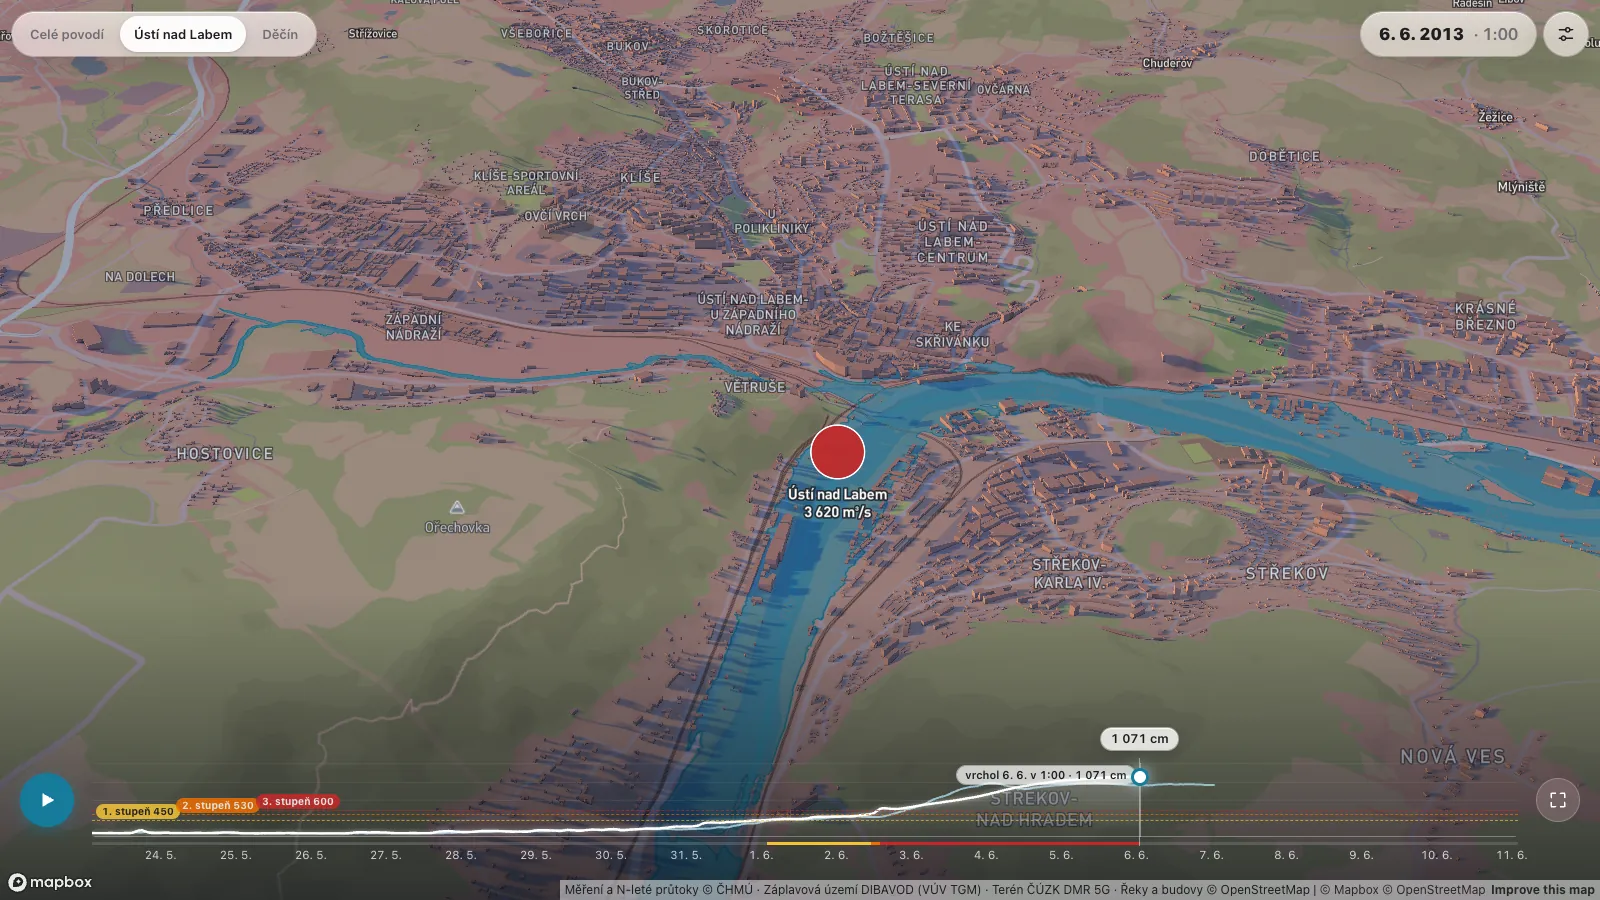
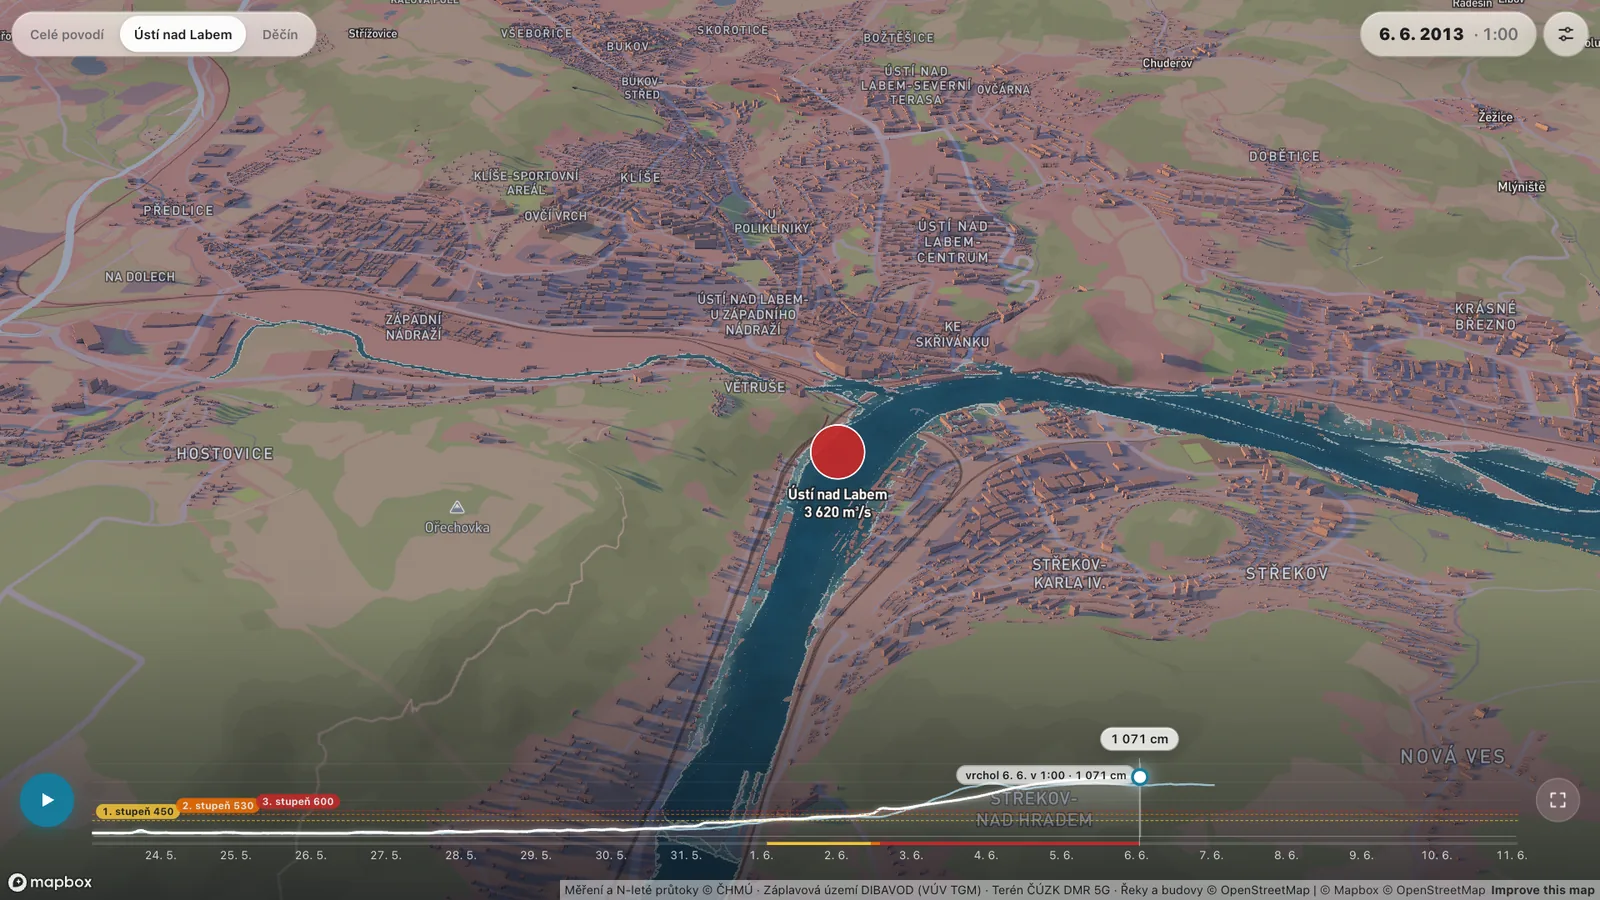
Ondra: odlesk slunce na vodě jako třpyt místo přepálené plochy, náhledy map s 3D vodou, video s plynule stoupající vodou

diff --git a/app/mapbox_mapa.py b/app/mapbox_mapa.py
@@ -898,7 +898,12 @@ void main() {
   vec3 R = reflect(-V, n);
   R.z = abs(R.z);
   float kSlunci = max(dot(R, u_slunce), 0.0);
-  vec3 nebe = mix(u_obzor, u_zenit, smoothstep(0.0, 0.55, R.z)) + u_barva_slunce * (0.4 * pow(kSlunci, 6.0) + 1.4 * pow(kSlunci, 120.0));
+  // z dálky a proti světlu, kde hladina zrcadlí oblohu, se odlesk slunce rozpadne na třpyt místo hladkého zrcadla
+  float daleko = max(smoothstep(1.5, 6.0, stopa), smoothstep(0.55, 0.9, F));
+  float jiskry = smoothstep(0.5, 0.85, sum(v_svet.xy / max(stopa * 1.2, 0.5) + u_cas * vec2(1.3, 0.4)).x);
+  float odlesk = (0.4 * pow(kSlunci, 6.0) + 0.8 * pow(kSlunci, 120.0)) * mix(1.0, 0.25 + 1.8 * jiskry, daleko);
+  vec3 nebe = mix(u_obzor, u_zenit, smoothstep(0.0, 0.55, R.z)) * mix(1.0, 0.72 + 0.5 * jiskry, daleko * pow(kSlunci, 3.0))
+            + u_barva_slunce * odlesk;
   vec3 telo = mix(u_melka, u_hluboka, 1.0 - exp(-hloubka / 1.4));
   // pomalé šmouhy kalné vody unášené proudem, ať je voda živá i z dálky, kde drobné vlnky nejsou vidět
   vec2 q = v_svet.xy - smer * rychlost * u_cas * 0.5;
@@ -908,6 +913,9 @@ void main() {
   vec3 Hv = normalize(V + u_slunce);
   float nh = max(dot(n, Hv), 0.0);
   c += u_barva_slunce * (pow(nh, 900.0) * 6.0 + pow(nh, 80.0) * 0.18);
+  // odlesk slunce proti světlu stlačit do teplého třpytu, ať se nepřepálí do bílé plochy
+  float jas = max(max(c.r, c.g), c.b);
+  if (jas > 0.8) c *= (0.8 + 0.18 * (1.0 - exp(-(jas - 0.8) * 2.5))) / jas;
 
   // břeh: tenký světlý lem 1–2 px v každém přiblížení a zblízka pěna, kde je voda mělčí než 15 cm
   float odBrehu = hloubka / max(fwidth(hloubka), 1e-4);

diff --git a/src/video_povoden.py b/src/video_povoden.py
@@ -110,8 +110,11 @@ SKRYJ = """({mesto, porovnani}) => {
   s.mapaB = !!mapaB;
   return s;
 }"""
-KROK = """({i, kamera, limit}) => {
+KROK = """({i, kamera, limit, f = 0, t = 0}) => {
+  // hladina stoupá plynule i uvnitř hodiny (f je zlomek hodiny), vlny běží v čase videa t, ne podle hodin počítače
   skoc(i);
+  cas = Math.min(stavPrehravace().konec, i + f);
+  nastavVodu({cas: t, plynule: false});
   const pil = document.getElementById('video-datum');
   if (pil) {
     const d = String(stavPrehravace().datum || '').replace(/ ?SEL?Č$/, '');
@@ -231,9 +234,9 @@ class Natoceni:
                 page.evaluate("() => cekej(10000)")
                 for f in range(prvni, min(z["k_do"] * KROKU, konec)):
                     t = time.time()
-                    k, kf = f // KROKU, f / KROKU  # kamera jede plynule i uvnitř hodiny, voda se mění po hodinách
+                    k, kf = f // KROKU, f / KROKU  # kamera i voda jedou plynule i uvnitř hodiny
                     kam = kamera(z, kf)
-                    vysl = page.evaluate(KROK, {"i": i0 + k, "kamera": kam, "limit": LIMIT})
+                    vysl = page.evaluate(KROK, {"i": i0 + k, "kamera": kam, "limit": LIMIT, "f": kf - k, "t": f / FPS})
                     page.screenshot(path=str(self.zabery / f"{zi}_{f:04d}.png"))
                     casy.append(time.time() - t)
                     zaznamy.append({"n": f, "k": k, "i": i0 + k, "zaber": z["nazev"], **vysl, "s": round(casy[-1], 2)})

diff --git a/docs/DENIK.md b/docs/DENIK.md
@@ -430,6 +430,6 @@ Oprava proti 9:46: slajd 7 (Funguje to doopravdy?) říká Honza, slajdy 8 (mapa
 - Co: repozitář připravený na zveřejnění. Nové README s výsledkem, postupem, webem a týmem, animace povodně a snímky webu v `docs/readme/`. Pracovní poznámky z přípravy a ostatní zadání hackathonu zůstávají jen lokálně (`.gitignore`). Zdroje náhledů map v `docs/grafy/mapbox3_*.png` přepsané na verzi se západem slunce, protože hodinové nasazení z nich vyrábí `web/img/` a na webu byl pořád starý tmavý náhled.
 - Proč: vyhráli jsme a repo bude veřejné, má se dát pochopit z první stránky.
 
-## ne 19:15 · Ondra
+## ne 18:56 · Ondra
 - Co: voda v mapě povodně je místo ploché modré plochy 3D hladina (`app/mapbox_mapa.py`, vlastní WebGL vrstva v Mapboxu). Leží v nadmořské výšce vody (nula vodočtu + stav + sklon podél Labe, nad jezem Střekov aspoň zdrž), takže zakryje spodek domů, které stojí ve vodě. Kam voda sahá, říká mapa příchodu vody po 4 m: pro každý bod nejnižší hladina z rozlivu DMR 5G, při které je pod vodou. Břeh se tak posouvá plynule i mezi spočítanými hladinami po 10 cm a z hloubky je barva (mělko světlejší, hloubka tmavá) a pěna u břehu. Vlnky jsou unášené po proudu, odráží se v nich obloha a slunce při západu. Kliknutí do vody ukáže, jak je tam hluboko. Stránka je menší (2,5 místo 5,5 MB), protože místo polygonů po 10 cm nese jeden obrázek. Ověřeno na všech 6 povodních pro Děčín i Ústí bez chyb v konzoli, 60 snímků za sekundu na M1 s vodou i bez ní, `app/test_app.py` 9 z 9.
 - Proč: plochá voda vypadala jako obarvená mapa, ne jako povodeň.
